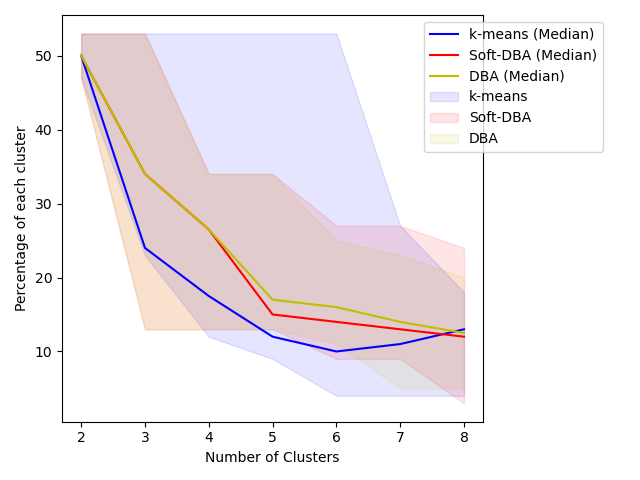
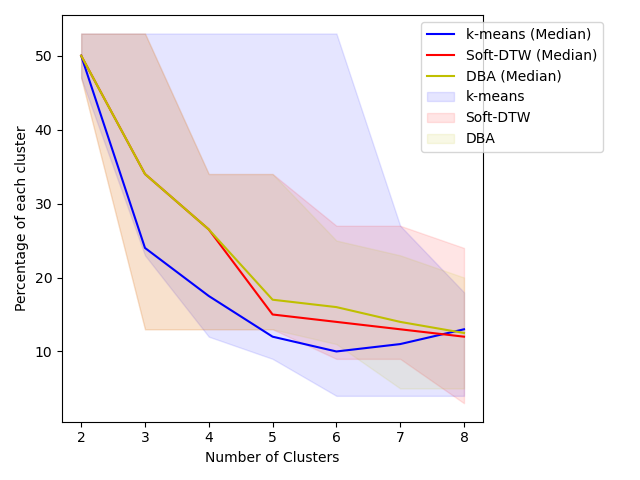
dtw --> dba

Changed region(s): [[0.6562, 0.0625, 0.9375, 0.3125], [0.6562, 0.0625, 0.6875, 0.125]]

diff --git a/_posts/2021-08-01-clustering.md b/_posts/2021-08-01-clustering.md
@@ -21,9 +21,11 @@ I followed this [demo](https://tslearn.readthedocs.io/en/stable/auto_examples/cl
 
 **Methods:**
 
-  $\bullet$ Euclidean k-means,
+  $\bullet$ Euclidean k-means
 
-  $\bullet$ DTW (Dynamic Time Wrapping), Soft-DTW.
+  $\bullet$ DTW (Dynamic Time Wrapping). Here, we use [DTW with  Barycenter Averaging](https://www.sciencedirect.com/science/article/abs/pii/S003132031000453X) and denote the method as **DBA**.
+  
+  $\bullet$ [Soft-DTW](https://arxiv.org/abs/1703.01541)
 
 Remarks:
 ---
@@ -36,8 +38,7 @@ timeseries k-means clustering center is a smoothed/low-passed version of signals
 
 DTW deals with time-invariance better, therefore DTW clustering centers are more indicative of shape.
 
-Comparison of DTW vs Soft-DTW: 
-According to this example, soft-DTW cluster center captures the actual signal center in time domain, whereas DTW pick the first template.
+DBA/DTW and Soft-DTW results are reasonably similar. Soft-DTW has differentiable loss. 
 
 Cluster size changes with different number of clusters
 ---
